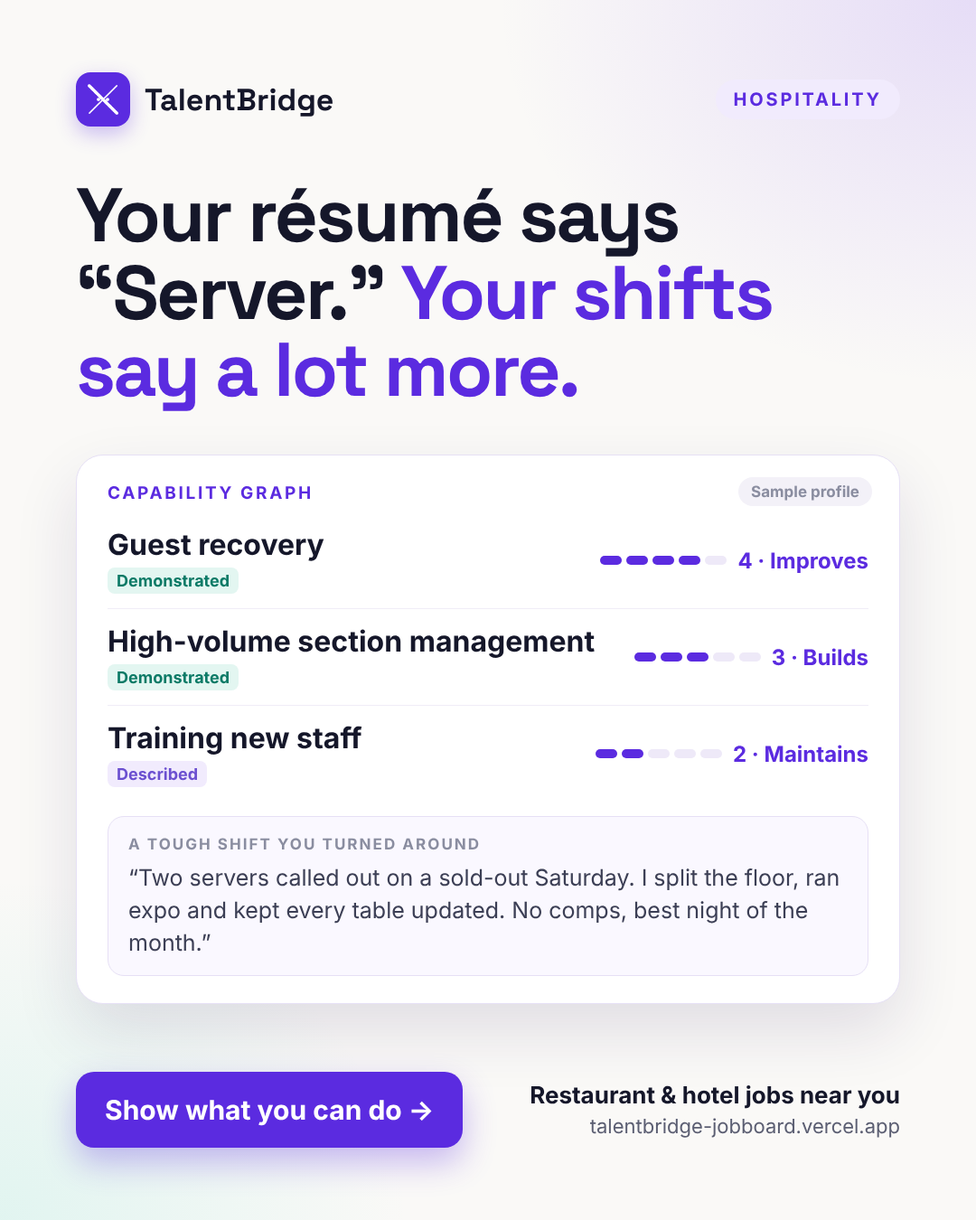
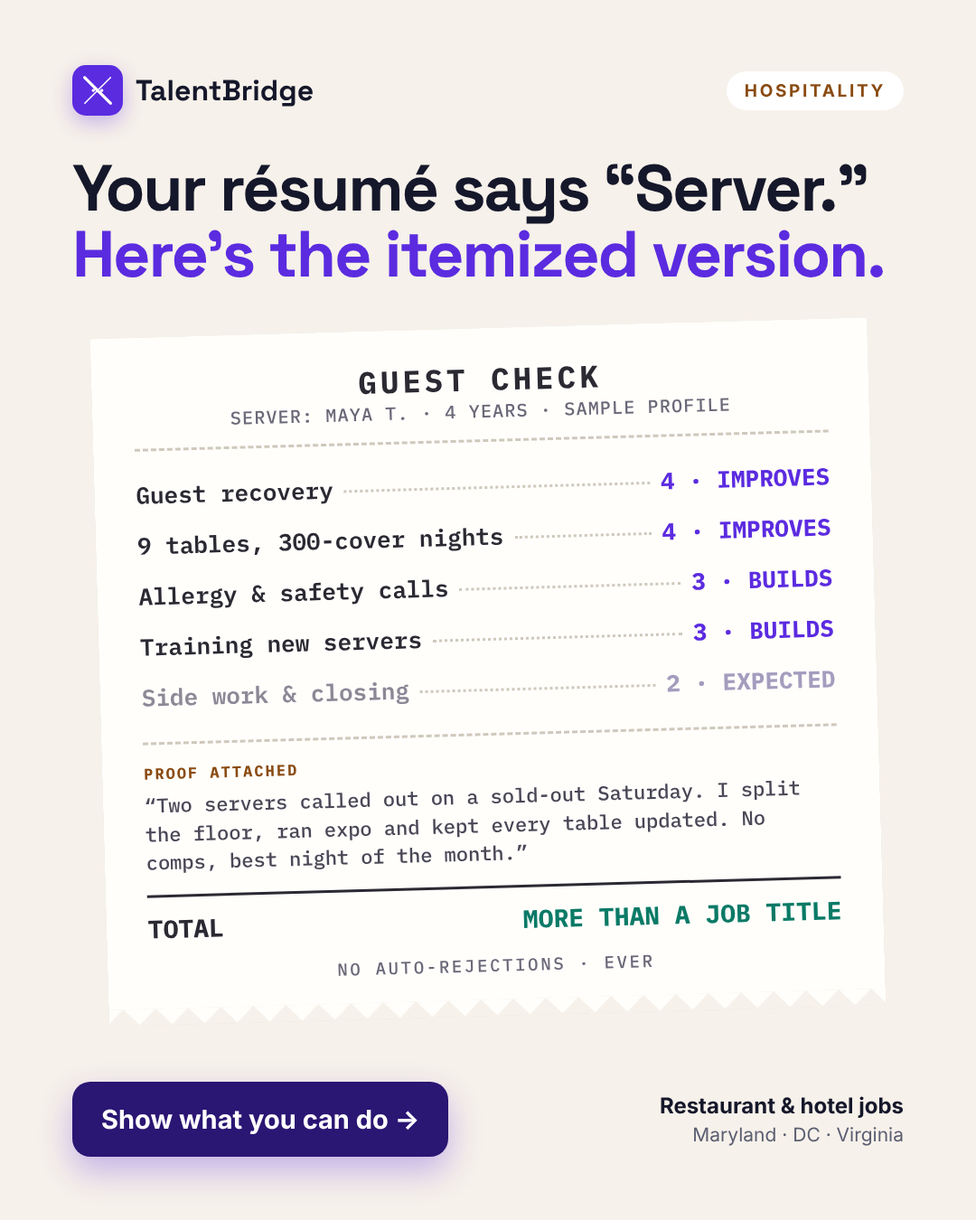
Marketing: redesign the three post images with stronger, more varied examples
- Career changer: an 8-year 5th grade teacher as a real Capability Graph,
  with green links to the jobs it leads to (instructional designer,
  training specialist, program manager) and a proof story.
- #ShowWhatYouCanDo: a nurse's actual share card, rendered by the site's
  own card code, shown as it appears in a social feed.
- Hospitality: a server's skills itemized on a guest check, with levels and
  a proof story.
Each is labeled as a sample. Post copy (LinkedIn, X, Facebook) and the
README now match the new images.

Claude-Session: https://claude.ai/code/session_01YVB9EvaZeq3nnnQPbcKXgt

diff --git a/marketing/src/social.html b/marketing/src/social.html
@@ -1,91 +1,160 @@
 <!doctype html><html><head><meta charset="utf-8">
-<link href="https://fonts.googleapis.com/css2?family=Space+Grotesk:wght@600;700&display=block" rel="stylesheet">
+<link href="https://fonts.googleapis.com/css2?family=Space+Grotesk:wght@600;700&family=IBM+Plex+Mono:wght@500;600;700&display=block" rel="stylesheet">
 <style>
 @font-face{font-family:Inter;src:url(../../server/assets/fonts/Inter-Regular.otf);font-weight:400}
 @font-face{font-family:Inter;src:url(../../server/assets/fonts/Inter-SemiBold.otf);font-weight:600}
 @font-face{font-family:Inter;src:url(../../server/assets/fonts/Inter-Bold.otf);font-weight:700 800}
 *{margin:0;padding:0;box-sizing:border-box}
-:root{--ink:#15172A;--muted:#5B5E72;--purple:#5B2BE0;--soft:#F1EBFD;--line:#E6E0F5;--teal:#0B7A66;--teal-soft:#E3F6F1;--red:#D9485F}
+:root{--ink:#15172A;--muted:#5B5E72;--purple:#5B2BE0;--soft:#F1EBFD;--line:#E6E0F5;--teal:#0B7A66;--mint:#5EEAD4;--teal-soft:#E3F6F1}
 body{font-family:Inter,sans-serif;color:var(--ink)}
-.slide{width:1080px;height:1350px;position:relative;overflow:hidden;background:#FAF9F7;padding:80px 84px;display:flex;flex-direction:column}
-.slide.dark{background:linear-gradient(135deg,#1B1046,#2A1673 55%,#3A1C9C);color:#fff}
-.glow{position:absolute;inset:0;background:radial-gradient(ellipse 70% 45% at 100% 0%,rgba(139,92,246,.18),transparent 70%),radial-gradient(ellipse 60% 40% at 0% 100%,rgba(45,212,191,.12),transparent 70%);pointer-events:none}
-.brand{display:flex;align-items:center;gap:16px;font-family:"Space Grotesk";font-weight:700;font-size:34px;position:relative}
-.brand .logo{width:60px;height:60px;border-radius:16px;background:var(--purple);display:grid;place-items:center;box-shadow:0 8px 22px rgba(91,43,224,.3)}
-.brand .logo img{width:34px}
-.tag{margin-left:auto;font-family:Inter;font-size:20px;font-weight:800;letter-spacing:.14em;color:var(--purple);background:var(--soft);border-radius:999px;padding:10px 20px}
+.slide{width:1080px;height:1350px;position:relative;overflow:hidden;background:#FAF9F7;padding:72px 80px 70px;display:flex;flex-direction:column}
+.slide.dark{background:linear-gradient(150deg,#140B38 0%,#24125F 45%,#3A1C9C 100%);color:#fff}
+.slide.warm{background:#F6F1EA}
+.glow{position:absolute;inset:0;pointer-events:none;background:radial-gradient(ellipse 70% 40% at 100% 0%,rgba(139,92,246,.16),transparent 70%),radial-gradient(ellipse 60% 35% at 0% 100%,rgba(45,212,191,.12),transparent 70%)}
+.brand{display:flex;align-items:center;gap:14px;font-family:"Space Grotesk";font-weight:700;font-size:32px;position:relative}
+.brand .logo{width:56px;height:56px;border-radius:15px;background:var(--purple);display:grid;place-items:center;box-shadow:0 8px 22px rgba(91,43,224,.3)}
+.brand .logo img{width:32px}
+.tag{margin-left:auto;font-family:Inter;font-size:19px;font-weight:800;letter-spacing:.14em;color:var(--purple);background:var(--soft);border-radius:999px;padding:10px 20px}
 .dark .tag{background:rgba(255,255,255,.12);color:#C9BCFA}
-h1{font-family:"Space Grotesk";font-weight:700;font-size:84px;line-height:1.02;letter-spacing:-.03em;margin-top:56px;position:relative}
-h1 em{font-style:normal;color:var(--purple)} .dark h1 em{background:linear-gradient(90deg,#B9A3FF,#5EEAD4);-webkit-background-clip:text;color:transparent}
-.sub{font-size:32px;line-height:1.38;color:var(--muted);margin-top:22px;position:relative}.dark .sub{color:#D8D0F7}
-.card{background:#fff;color:var(--ink);border:1.5px solid var(--line);border-radius:30px;padding:30px 34px;box-shadow:0 30px 70px rgba(39,22,90,.12);position:relative}
-.label{font-size:19px;font-weight:800;letter-spacing:.14em;color:#8A8DA0}
-.resume{margin-top:50px;background:#F3F2F7;border:2px dashed #C9C6D6;border-radius:26px;padding:30px 34px;position:relative}
-.resume p{font-family:Georgia,serif;font-size:36px;color:#55586B;margin-top:10px;line-height:1.3}
-.arrow{display:flex;justify-content:center;margin:26px 0;color:var(--purple);position:relative}
-.row{display:flex;justify-content:space-between;align-items:center;padding:16px 0;border-top:1.5px solid #F0EDF7;gap:18px}
-.row:first-of-type{border-top:0}
-.nm{font-size:32px;font-weight:700}
-.ev{display:inline-block;font-size:18px;font-weight:800;color:var(--teal);background:var(--teal-soft);border-radius:8px;padding:4px 10px;margin-top:6px}
-.lvl{display:flex;align-items:center;gap:12px;font-size:24px;font-weight:800;color:var(--purple);white-space:nowrap}
-.m{display:flex;gap:5px}.m i{width:24px;height:10px;border-radius:5px;background:#EEE9F8}.m i.on{background:var(--purple)}
-.story{margin-top:16px;background:#FAF8FF;border:1.5px solid var(--line);border-radius:18px;padding:18px 22px;font-size:25px;line-height:1.45;color:#3C3F55}
-.story b{display:block;font-size:17px;letter-spacing:.12em;color:#8A8DA0;margin-bottom:6px}
-.cta{margin-top:auto;display:flex;align-items:center;justify-content:space-between;position:relative;padding-top:30px}
-.btn{background:var(--purple);color:#fff;font-weight:800;font-size:30px;border-radius:20px;padding:24px 32px;box-shadow:0 16px 36px rgba(91,43,224,.32)}
+.warm .tag{background:#fff;color:#8A4B12}
+h1{font-family:"Space Grotesk";font-weight:700;font-size:78px;line-height:1.02;letter-spacing:-.03em;margin-top:44px;position:relative}
+h1 em{font-style:normal;color:var(--purple)}
+.dark h1 em{background:linear-gradient(90deg,#B9A3FF,#5EEAD4);-webkit-background-clip:text;color:transparent}
+.sub{font-size:31px;line-height:1.36;color:var(--muted);margin-top:18px;position:relative}
+.dark .sub{color:#D8D0F7}
+.cta{margin-top:auto;display:flex;align-items:center;justify-content:space-between;gap:24px;position:relative}
+.btn{background:var(--purple);color:#fff;font-weight:800;font-size:29px;border-radius:20px;padding:24px 32px;box-shadow:0 16px 36px rgba(91,43,224,.32);white-space:nowrap}
 .dark .btn{background:#fff;color:#2A1673}
-.url{text-align:right;font-size:22px;color:var(--muted);line-height:1.4}.url b{display:block;font-size:26px;color:var(--ink)}
+.url{text-align:right;font-size:21px;color:var(--muted);line-height:1.4}.url b{display:block;font-size:24px;color:var(--ink)}
 .dark .url{color:#C9BCFA}.dark .url b{color:#fff}
-.hash{font-family:"Space Grotesk";font-size:44px;font-weight:700;color:#5EEAD4;margin-top:30px;position:relative}
-.prof{margin-top:46px;padding:0;overflow:hidden}
-.prof .ban{height:120px;background:linear-gradient(120deg,#1B1046,#5B2BE0)}
-.prof .av{position:absolute;left:34px;top:60px;width:126px;height:126px;border-radius:50%;border:7px solid #fff;background:linear-gradient(135deg,#C4B5FD,#5EEAD4);display:grid;place-items:center;font-size:46px;font-weight:800;color:#2A1673}
-.prof .body{padding:80px 34px 28px}
-.prof .n{font-size:40px;font-weight:800}.prof .h{font-size:24px;color:var(--muted)}
-.share{display:flex;gap:12px;margin-top:18px}.share span{font-size:22px;font-weight:700;border:1.5px solid var(--line);border-radius:12px;padding:10px 18px}
-.chips{display:flex;flex-wrap:wrap;gap:14px;margin-top:40px;position:relative}
-.chip{font-size:26px;font-weight:700;background:rgba(255,255,255,.1);border:1.5px solid rgba(255,255,255,.22);border-radius:999px;padding:14px 24px}
-.sample{position:absolute;right:30px;top:24px;font-size:17px;font-weight:700;color:#8A8DA0;background:#F3F1F8;border-radius:999px;padding:6px 14px}
+.sample{font-size:16px;font-weight:700;color:#8A8DA0;background:#F3F1F8;border-radius:999px;padding:6px 14px}
+/* Slide 1: the graph */
+.graph{position:relative;margin-top:18px;height:570px;flex:none}
+.graph svg{position:absolute;inset:0}
+.graph .sample{position:absolute;right:0;top:0}
+.proof{position:relative;background:#fff;border:1.5px solid var(--line);border-radius:24px;padding:22px 28px;box-shadow:0 20px 50px rgba(39,22,90,.08);font-size:25px;line-height:1.42;color:#3C3F55;margin-top:8px}
+.proof b{display:block;font-size:16px;letter-spacing:.13em;color:var(--purple);margin-bottom:6px}
+/* Slide 2: the post */
+.post{position:relative;margin-top:28px;background:#fff;color:var(--ink);border-radius:30px;padding:28px 30px 0;box-shadow:0 40px 90px rgba(5,2,25,.5)}
+.who{display:flex;align-items:center;gap:16px}
+.av{width:64px;height:64px;border-radius:50%;background:#2A1A6E;color:#C4B5FD;display:grid;place-items:center;font-weight:800;font-size:24px}
+.who b{display:block;font-size:26px}.who span{font-size:20px;color:var(--muted)}
+.post p{font-size:25px;line-height:1.4;margin:16px 0 18px}
+.post p .h{color:var(--purple);font-weight:700}
+.preview{margin:0 -30px;border-top:1px solid #E7E5EE}
+.preview img{display:block;width:100%}
+.preview .meta{background:#F3F2F7;padding:16px 30px 20px;border-radius:0 0 30px 30px}
+.preview .meta small{display:block;font-size:17px;color:#6E7186;letter-spacing:.02em}
+.preview .meta b{font-size:22px}
+.hash{font-family:"Space Grotesk";font-size:52px;font-weight:700;color:var(--mint);margin-top:40px;position:relative;letter-spacing:-.01em}
+/* Slide 3: the guest check */
+.checkwrap{position:relative;margin-top:44px;margin-bottom:34px;display:flex;justify-content:center}
+.check{width:860px;background:#FFFEFB;padding:34px 46px 44px;font-family:"IBM Plex Mono",monospace;color:#2B2A33;transform:rotate(-1.6deg);box-shadow:0 30px 70px rgba(60,40,10,.22);
+  -webkit-mask:linear-gradient(#000,#000) top/100% calc(100% - 18px) no-repeat,conic-gradient(from -45deg at bottom,#0000,#000 1deg 89deg,#0000 90deg) bottom/36px 18px repeat-x}
+.check .head{text-align:center;border-bottom:3px dashed #CFC8BC;padding-bottom:18px}
+.check .head b{display:block;font-size:34px;letter-spacing:.12em}
+.check .head span{font-size:20px;color:#6B6878;letter-spacing:.06em}
+.items{margin-top:20px}
+.it{display:flex;align-items:baseline;gap:12px;font-size:26px;font-weight:600;padding:11px 0}
+.it .dots{flex:1;border-bottom:3px dotted #CFC8BC;transform:translateY(-6px)}
+.it .lv{color:var(--purple);font-weight:700;white-space:nowrap}
+.it.base{color:#8C8896}.it.base .lv{color:#A49DBE}
+.note{margin-top:22px;border-top:3px dashed #CFC8BC;padding-top:20px;font-size:22px;line-height:1.45;color:#4A4756}
+.note b{display:block;font-size:17px;letter-spacing:.12em;color:#8A4B12;margin-bottom:6px}
+.total{display:flex;justify-content:space-between;align-items:baseline;margin-top:20px;border-top:3px solid #2B2A33;padding-top:16px;font-size:28px;font-weight:700}
+.total span:last-child{color:var(--teal)}
+.thanks{text-align:center;margin-top:20px;font-size:19px;letter-spacing:.14em;color:#6B6878}
+.warm .btn{background:#2A1673}
 </style></head><body>
 
-<!-- 1. Before / after -->
-<div class="slide" id="before-after"><div class="glow"></div>
-  <div class="brand"><div class="logo"><img src="../../brand/talentbridge-mark-white.png"></div>TalentBridge<span class="tag">BEFORE / AFTER</span></div>
-  <h1>Your résumé says what you were <em>responsible for.</em></h1>
-  <div class="resume"><span class="label">ON THE RÉSUMÉ</span><p>“Responsible for quality checks and team training.”</p></div>
-  <div class="arrow"><svg width="64" height="64" viewBox="0 0 24 24" fill="none" stroke="currentColor" stroke-width="2.4" stroke-linecap="round" stroke-linejoin="round"><path d="M12 4v16M5 13l7 7 7-7"/></svg></div>
-  <div class="card"><span class="sample">Sample profile</span><span class="label" style="color:var(--purple)">ON TALENTBRIDGE</span>
-    <div class="row" style="margin-top:10px"><div><div class="nm">Root-cause analysis</div><span class="ev">Demonstrated</span></div><span class="lvl"><span class="m"><i class="on"></i><i class="on"></i><i class="on"></i><i class="on"></i><i></i></span>4 · Improves</span></div>
-    <div class="story"><b>PROOF STORY</b>“Traced repeat defects to one supplier step, rebuilt the check, and cut rework by a third.”</div>
+<!-- 1. Career changer: a real graph, with the jobs it leads to -->
+<div class="slide" id="career-changer"><div class="glow"></div>
+  <div class="brand"><div class="logo"><img src="../../brand/talentbridge-mark-white.png"></div>TalentBridge<span class="tag">CAREER CHANGERS</span></div>
+  <h1 style="font-size:74px">8 years teaching<br><em>5th grade.</em></h1>
+  <p class="sub">Keyword software reads that as one word: <b style="color:var(--ink)">teacher.</b> Here’s what it adds up to.</p>
+  <div class="graph">
+    <svg viewBox="0 0 920 600" width="920" height="570">
+      <defs>
+        <radialGradient id="g4" cx=".35" cy=".3"><stop offset="0" stop-color="#8B6BF5"/><stop offset="1" stop-color="#4A22C4"/></radialGradient>
+        <radialGradient id="gc" cx=".35" cy=".3"><stop offset="0" stop-color="#2E1A7A"/><stop offset="1" stop-color="#160C3D"/></radialGradient>
+      </defs>
+      <!-- edges: center to skills -->
+      <g stroke="#D9CFF7" stroke-width="4">
+        <line x1="460" y1="300" x2="460" y2="76"/><line x1="460" y1="300" x2="760" y2="232"/><line x1="460" y1="300" x2="680" y2="492"/>
+        <line x1="460" y1="300" x2="240" y2="492"/><line x1="460" y1="300" x2="160" y2="232"/>
+      </g>
+      <!-- adjacent roles branch from strengths -->
+      <g stroke="#5EEAD4" stroke-width="4" stroke-dasharray="2 10" stroke-linecap="round">
+        <line x1="518" y1="60" x2="612" y2="46"/><line x1="160" y1="170" x2="150" y2="84"/><line x1="716" y1="452" x2="760" y2="426"/>
+      </g>
+      <!-- skills (size = depth level) -->
+      <circle cx="460" cy="76" r="62" fill="url(#g4)"/>
+      <circle cx="760" cy="232" r="62" fill="url(#g4)"/>
+      <circle cx="680" cy="492" r="54" fill="url(#g4)" opacity=".92"/>
+      <circle cx="240" cy="492" r="46" fill="#E4DCFA"/>
+      <circle cx="160" cy="232" r="54" fill="url(#g4)" opacity=".92"/>
+      <g font-family="Space Grotesk" font-weight="700" fill="#fff" text-anchor="middle" font-size="40">
+        <text x="460" y="90">4</text><text x="760" y="246">4</text><text x="680" y="506">3</text><text x="160" y="246">3</text>
+        <text x="240" y="506" fill="#7A6BB5">2</text>
+      </g>
+      <!-- center: the person -->
+      <circle cx="460" cy="300" r="86" fill="url(#gc)" stroke="#fff" stroke-width="8"/>
+      <text x="460" y="312" text-anchor="middle" font-family="Space Grotesk" font-weight="700" font-size="38" fill="#C4B5FD">Elena A.</text>
+      <!-- labels -->
+      <g font-family="Inter" text-anchor="middle" stroke="#FAF9F7" stroke-width="7" stroke-linejoin="round" paint-order="stroke">
+        <text x="460" y="164" font-size="23" font-weight="700" fill="#15172A">Curriculum design</text>
+        <text x="460" y="188" font-size="18" font-weight="700" fill="#5B2BE0">Improves</text>
+        <text x="760" y="322" font-size="23" font-weight="700" fill="#15172A">Data-driven teaching</text>
+        <text x="760" y="347" font-size="18" font-weight="700" fill="#5B2BE0">Improves</text>
+        <text x="680" y="574" font-size="23" font-weight="700" fill="#15172A">Family communication</text>
+        <text x="680" y="598" font-size="18" font-weight="700" fill="#5B2BE0">Builds</text>
+        <text x="240" y="566" font-size="23" font-weight="700" fill="#8A8DA0">Classroom routines</text>
+        <text x="240" y="590" font-size="18" font-weight="700" fill="#A49DBE">Expected at this level</text>
+        <text x="160" y="314" font-size="23" font-weight="700" fill="#15172A">Coaching new teachers</text>
+        <text x="160" y="339" font-size="18" font-weight="700" fill="#5B2BE0">Builds</text>
+      </g>
+      <!-- adjacent role pills -->
+      <g font-family="Inter" font-weight="700" font-size="20" text-anchor="middle">
+        <rect x="612" y="22" width="240" height="46" rx="23" fill="#E3F6F1" stroke="#5EEAD4" stroke-width="2"/><text x="732" y="52" fill="#0B7A66">Instructional designer</text>
+        <rect x="30" y="38" width="240" height="46" rx="23" fill="#E3F6F1" stroke="#5EEAD4" stroke-width="2"/><text x="150" y="68" fill="#0B7A66">Training specialist</text>
+        <rect x="680" y="380" width="230" height="46" rx="23" fill="#E3F6F1" stroke="#5EEAD4" stroke-width="2"/><text x="795" y="410" fill="#0B7A66">Program manager</text>
+      </g>
+    </svg>
   </div>
-  <div class="cta"><div class="btn">Show what you can do →</div><div class="url"><b>Free for job seekers</b>talentbridge-jobboard.vercel.app</div></div>
+  <div class="proof"><b style="display:flex;justify-content:space-between;align-items:center">PROOF · CURRICULUM DESIGN · 4 IMPROVES <span class="sample" style="letter-spacing:0">Sample profile</span></b>“Rebuilt our reading block around weekly checks. Most of my class gained two reading levels by spring.”</div>
+  <div class="cta"><div class="btn">See what your experience fits →</div><div class="url"><b>Free for job seekers</b>talentbridge-jobboard.vercel.app</div></div>
 </div>
 
-<!-- 2. #ShowWhatYouCanDo -->
+<!-- 2. #ShowWhatYouCanDo: the real share card, in the feed -->
 <div class="slide dark" id="show-what-you-can-do"><div class="glow"></div>
-  <div class="brand"><div class="logo"><img src="../../brand/talentbridge-mark-white.png"></div>TalentBridge<span class="tag">THE CHALLENGE</span></div>
-  <h1>Build your Capability Graph. <em>Share it.</em></h1>
-  <p class="sub">Every skill rated 1–5 on a published scale, backed by stories from your real work. Then one tap to post it.</p>
-  <div class="card prof"><div class="ban"></div><div class="av">JR</div><span class="sample" style="top:136px">Sample profile</span>
-    <div class="body"><div class="n">Jordan Rivera</div><div class="h">Operations & quality lead</div>
-      <div class="row" style="margin-top:14px"><div class="nm" style="font-size:28px">Process design</div><span class="lvl"><span class="m"><i class="on"></i><i class="on"></i><i class="on"></i><i></i><i></i></span>3 · Builds</span></div>
-      <div class="row"><div class="nm" style="font-size:28px">Team training</div><span class="lvl"><span class="m"><i class="on"></i><i class="on"></i><i class="on"></i><i class="on"></i><i></i></span>4 · Improves</span></div>
-      <div class="share"><span>Share on LinkedIn</span><span>X</span><span>Facebook</span></div>
-    </div></div>
-  <div class="hash">#ShowWhatYouCanDo</div>
-  <div class="cta"><div class="btn">Build yours free →</div><div class="url"><b>talentbridge-jobboard.vercel.app</b>No auto-rejections. Ever.</div></div>
+  <div class="brand"><div class="logo"><img src="../../brand/talentbridge-mark-white.png"></div>TalentBridge<span class="tag">#SHOWWHATYOUCANDO</span></div>
+  <h1 style="font-size:72px;margin-top:38px">Build it. Share it.<br><em>Get noticed.</em></h1>
+  <p class="sub" style="font-size:29px;margin-top:14px">One tap turns your Capability Graph into this, right in the feed.</p>
+  <div class="post">
+    <div class="who"><div class="av">DO</div><div><b>Danielle Okoro</b><span>Registered Nurse · just now</span></div></div>
+    <p>Ten years of night shifts, finally on one page. Turns out catching problems early is my thing. <span class="h">#ShowWhatYouCanDo</span></p>
+    <div class="preview"><img src="sharecard-sample.png"><div class="meta"><small>talentbridge-jobboard.vercel.app</small><b>Danielle Okoro · Registered Nurse, Med-Surg | TalentBridge</b></div></div>
+  </div>
+  <div class="cta" style="margin-top:auto;padding-top:22px"><div class="btn">Build yours free →</div><div class="url"><b>Sample profile shown</b>talentbridge-jobboard.vercel.app</div></div>
 </div>
 
-<!-- 3. Hospitality -->
-<div class="slide" id="hospitality"><div class="glow"></div>
+<!-- 3. Hospitality: the itemized server -->
+<div class="slide warm" id="hospitality">
   <div class="brand"><div class="logo"><img src="../../brand/talentbridge-mark-white.png"></div>TalentBridge<span class="tag">HOSPITALITY</span></div>
-  <h1>Your résumé says “Server.” <em>Your shifts say a lot more.</em></h1>
-  <div class="card" style="margin-top:50px"><span class="sample">Sample profile</span><span class="label" style="color:var(--purple)">CAPABILITY GRAPH</span>
-    <div class="row" style="margin-top:10px"><div><div class="nm">Guest recovery</div><span class="ev">Demonstrated</span></div><span class="lvl"><span class="m"><i class="on"></i><i class="on"></i><i class="on"></i><i class="on"></i><i></i></span>4 · Improves</span></div>
-    <div class="row"><div><div class="nm">High-volume section management</div><span class="ev">Demonstrated</span></div><span class="lvl"><span class="m"><i class="on"></i><i class="on"></i><i class="on"></i><i></i><i></i></span>3 · Builds</span></div>
-    <div class="row"><div><div class="nm">Training new staff</div><span class="ev" style="color:#6B4FD0;background:var(--soft)">Described</span></div><span class="lvl"><span class="m"><i class="on"></i><i class="on"></i><i></i><i></i><i></i></span>2 · Maintains</span></div>
-    <div class="story"><b>A TOUGH SHIFT YOU TURNED AROUND</b>“Two servers called out on a sold-out Saturday. I split the floor, ran expo and kept every table updated. No comps, best night of the month.”</div>
-  </div>
-  <div class="cta"><div class="btn">Show what you can do →</div><div class="url"><b>Restaurant &amp; hotel jobs near you</b>talentbridge-jobboard.vercel.app</div></div>
+  <h1 style="font-size:72px">Your résumé says “Server.” <em>Here’s the itemized version.</em></h1>
+  <div class="checkwrap"><div class="check">
+    <div class="head"><b>GUEST CHECK</b><span>SERVER: MAYA T. · 4 YEARS · SAMPLE PROFILE</span></div>
+    <div class="items">
+      <div class="it"><span>Guest recovery</span><span class="dots"></span><span class="lv">4 · IMPROVES</span></div>
+      <div class="it"><span>9 tables, 300-cover nights</span><span class="dots"></span><span class="lv">4 · IMPROVES</span></div>
+      <div class="it"><span>Allergy &amp; safety calls</span><span class="dots"></span><span class="lv">3 · BUILDS</span></div>
+      <div class="it"><span>Training new servers</span><span class="dots"></span><span class="lv">3 · BUILDS</span></div>
+      <div class="it base"><span>Side work &amp; closing</span><span class="dots"></span><span class="lv">2 · EXPECTED</span></div>
+    </div>
+    <div class="note"><b>PROOF ATTACHED</b>“Two servers called out on a sold-out Saturday. I split the floor, ran expo and kept every table updated. No comps, best night of the month.”</div>
+    <div class="total"><span>TOTAL</span><span>MORE THAN A JOB TITLE</span></div>
+    <div class="thanks">NO AUTO-REJECTIONS · EVER</div>
+  </div></div>
+  <div class="cta"><div class="btn">Show what you can do →</div><div class="url"><b>Restaurant &amp; hotel jobs</b>Maryland · DC · Virginia</div></div>
 </div>
 </body></html>

diff --git a/marketing/posts-weeks-1-2.md b/marketing/posts-weeks-1-2.md
@@ -34,25 +34,20 @@ Copy, paste, adjust to your voice. Links come from the tracking table in `README
 
 **First comment:** `Try it here: [LinkedIn launch link]`
 
-### Week 1, Wednesday: before and after
-**Image:** `marketing/assets/post-before-after.png`
+### Week 1, Wednesday: what your experience adds up to
+**Image:** `marketing/assets/post-career-changer.png`
 
-> Here’s a line you’ll find on thousands of résumés:
+> “8 years teaching 5th grade.”
 >
-> “Responsible for quality checks and team training.”
+> Most hiring software reads that as one word: teacher. Then it files you under “education” and stops.
 >
-> Every hiring manager has read that sentence a thousand times. It says what the job was, not how good the person was at it.
+> But eight years in a classroom means you’ve designed curriculum, used data every week to change what you do, coached new teachers, and kept 25 families informed and on your side.
 >
-> Here’s the same experience on TalentBridge:
+> On TalentBridge, that experience becomes a Capability Graph: each skill rated 1–5, backed by a real story. Say your strongest skill is curriculum design, at level 4 · Improves, because you rebuilt your reading block and most of your class gained two reading levels by spring.
 >
-> Root-cause analysis: 4 · Improves
-> Proof: “Traced repeat defects to one supplier step, rebuilt the check, and cut rework by a third.”
+> And the graph shows where those skills lead: instructional designer, training specialist, program manager. That’s the part a résumé can’t do.
 >
-> Same person. One version gets skimmed. The other gets a conversation.
->
-> The difference is the question. TalentBridge doesn’t ask “what were you responsible for?” It asks “show me a time you did it, and what changed.”
->
-> If your résumé undersells you, build your Capability Graph. It’s free. Link in the comments.
+> If you’re changing careers, or your job title undersells you, build yours. It’s free. Link in the comments.
 
 ### Week 1, Friday: #ShowWhatYouCanDo
 **Image:** `marketing/assets/post-show-what-you-can-do.png`. Better still, a screenshot of your own profile page.
@@ -126,13 +121,13 @@ Copy, paste, adjust to your voice. Links come from the tracking table in `README
    > No auto-rejections. Ever.
    >
    > [X launch link]
-2. **With `post-before-after.png`:**
-   > Résumé: “Responsible for quality checks.”
-   > TalentBridge: Root-cause analysis, 4 · Improves, with the story to prove it.
+2. **With `post-career-changer.png`:**
+   > “8 years teaching 5th grade.”
    >
-   > Same person. One gets skimmed. One gets a conversation.
+   > Keyword software: teacher.
+   > TalentBridge: curriculum design (4 · Improves), data-driven teaching, coaching new teachers, and a path to instructional design.
    >
-   > [X launch link]
+   > Same person. Very different job search. [X launch link]
 3. **With the explainer image:**
    > You can’t buzzword your way to a 5.
    >
@@ -164,7 +159,7 @@ Copy, paste, adjust to your voice. Links come from the tracking table in `README
    > 5 Leads
    >
    > No black box. You see why you got your rating, and so do employers.
-8. **Career changers:**
+8. **Career changers** (with `post-career-changer.png`):
    > Career changers: your last job taught you more than its title says.
    >
    > A teacher runs 30 stakeholders before 9am. A server calms an angry guest every night.
@@ -184,7 +179,7 @@ Copy, paste, adjust to your voice. Links come from the tracking table in `README
 ## Facebook
 
 ### Your page or profile (week 1)
-**Image:** `post-before-after.png`
+**Image:** `post-career-changer.png`
 
 > I built something I’m proud of. TalentBridge is a free job site that shows employers what you can actually do, not just the keywords on your résumé. Every skill gets rated 1–5 and backed up with real stories from your work, and it never auto-rejects anyone. If you or someone you know is job hunting, I’d love for you to try it and tell me what you think: [Facebook link]
 

diff --git a/marketing/README.md b/marketing/README.md
@@ -6,9 +6,9 @@ Everything here costs nothing but time. The plan: **win job seekers in Maryland,
 |---|---|
 | `posts-weeks-1-2.md` | Ready-to-post copy for LinkedIn, X and Facebook, two weeks |
 | `outreach.md` | Partner, employer and press emails, plus the workshop outline |
-| `assets/post-before-after.png` | Résumé line vs. TalentBridge (1080×1350) |
-| `assets/post-show-what-you-can-do.png` | The #ShowWhatYouCanDo challenge |
-| `assets/post-hospitality.png` | For servers, cooks and hotel staff |
+| `assets/post-career-changer.png` | A teacher’s Capability Graph and the jobs it leads to (1080×1350) |
+| `assets/post-show-what-you-can-do.png` | #ShowWhatYouCanDo: a real share card as it looks in the feed |
+| `assets/post-hospitality.png` | A server’s skills, itemized on a guest check |
 | `assets/flyer.pdf` | One-page flyer for partners; its QR code is tracked |
 | `../brand/` | Logo, X header, Capability Graph explainer, promo video |
 
@@ -82,7 +82,7 @@ Week 3 rule: put twice the time into the channel with the most signups per hour 
 
 - **Lead with value in groups.** Read each group’s rules first, and where links aren’t allowed, say “comment and I’ll send it.”
 - **Only real numbers.** Never invent statistics or testimonials. Quote a user only with their permission.
-- **Sample profiles stay labeled.** The images use made-up people (Jordan Rivera, the server story) and say “Sample profile”; keep it that way.
+- **Sample profiles stay labeled.** The images use made-up people (Elena A., Danielle Okoro, Maya T.) and say “Sample profile”; keep it that way.
 - **No mass DMs, scraped email lists or bought followers.**
 - **Announcements are for service updates only.** The Privacy Policy says TalentBridge doesn’t send marketing email. For a newsletter, make it opt-in and update the Privacy Policy first.
 - **“Free”:** the copy says it’s free for job seekers. Change it everywhere if that ever stops being true.
